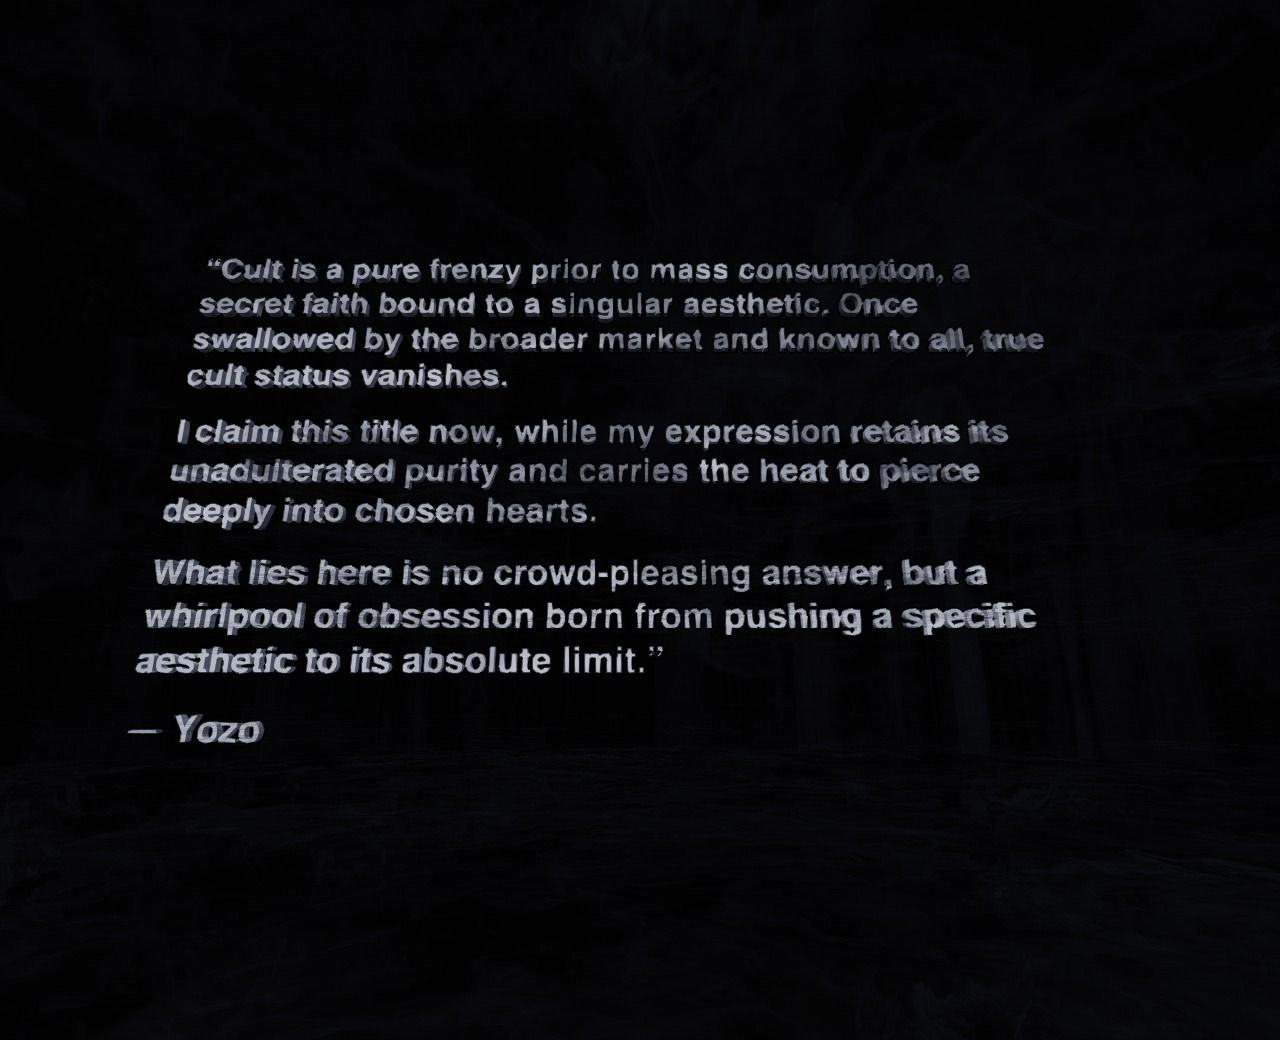
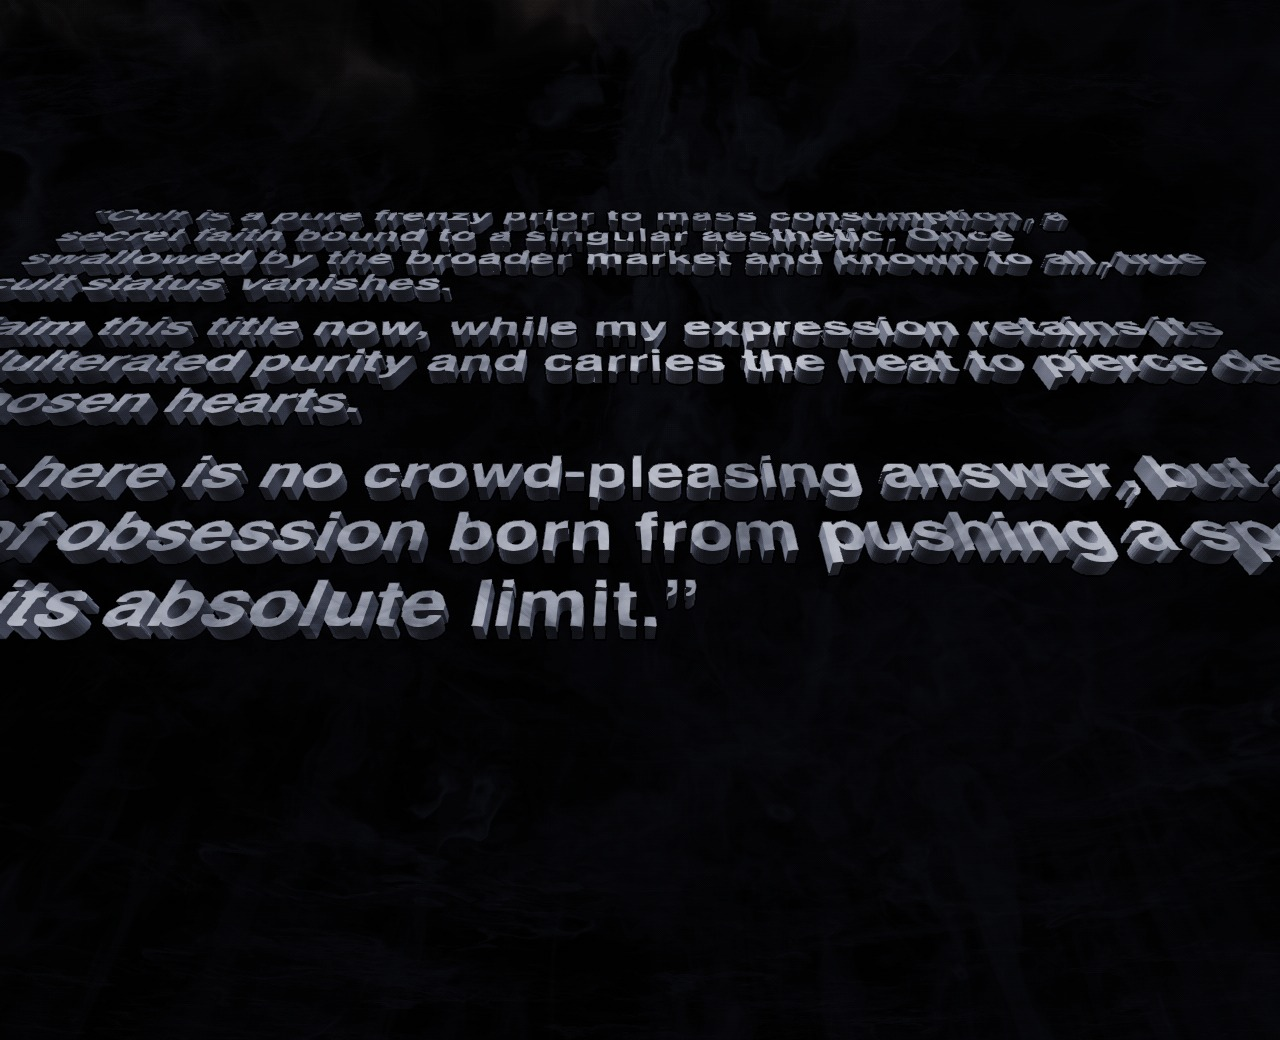
the mountain, monumental: 60 m letters, 1.6 km wide, 900 m tall, 400 m out; bottom line 24° up, top 70° up; sized by the look-up angle, never to fit the screen

Changed region(s): [[0.0, 0.1846, 1.0, 0.6462], [0.0938, 0.6769, 0.2188, 0.7385]]

diff --git a/web/src/world/mountain.ts b/web/src/world/mountain.ts
@@ -1,14 +1,15 @@
 // The mountain (owner 09-07: "so far away and so big that it looks like it has perspective, a genuine mountain in the
 // distance, the colour illuminated by the lighting, not flat white"): Yozo's words as solid Helvetica letters cut deep like
-// stone, one upright block 300 m out opposite the door (owner: "closer, upright, the perspective naturally": you look up at it),
-// its foot on the cloud floor, lit by a cool key light, a slow sweep of light across the face, and the lightning. Fixed in the world.
+// stone, one upright block 400 m out opposite the door, 1.6 km wide and 900 m tall, wider than the view (owner: "MASSIVE
+// MONUMENTAL GIGANTIC, you have to look up to see it"): the bottom line 24° up above the roofline, the top 70° up, hazed, into
+// the clouds. Sized by the look-up angle, never to fit the screen. Lit by a cool key light, a slow sweep, and the lightning.
 import * as THREE from 'three'
 import { FontLoader, type Font } from 'three/examples/jsm/loaders/FontLoader.js'
 import { TextGeometry } from 'three/examples/jsm/geometries/TextGeometry.js'
 import { mergeGeometries } from 'three/examples/jsm/utils/BufferGeometryUtils.js'
 
 export interface MountainOpts { width: number; size: number; depth: number; lean: number; lineHeight: number; paraGap: number }
-const DEFAULTS: MountainOpts = { width: 420, size: 15.5, depth: 4.5, lean: 0, lineHeight: 1.22, paraGap: 0.6 }
+const DEFAULTS: MountainOpts = { width: 1640, size: 60, depth: 17, lean: 0, lineHeight: 1.22, paraGap: 0.6 }
 
 const vert = /* glsl */ `
 varying vec3 vW; varying vec3 vN; varying vec3 vL;
@@ -71,7 +72,7 @@ export class Mountain {
         uGroundCol: { value: new THREE.Color(0.05, 0.05, 0.06) },
         uAlbedo: { value: new THREE.Color(0.5, 0.5, 0.52) },
         uHaze: { value: new THREE.Color(0.035, 0.04, 0.055) },
-        uHazeRange: { value: new THREE.Vector2(400, 1800) },   // nearly off this close: it must read
+        uHazeRange: { value: new THREE.Vector2(500, 2200) },   // the bottom rows clear, the top rows a third into the sky's grey
       },
       vertexShader: vert, fragmentShader: frag, fog: false,
     })

diff --git a/web/src/world/looks/void.ts b/web/src/world/looks/void.ts
@@ -64,7 +64,7 @@ export class Void {
       const s = new THREE.Mesh(new THREE.CircleGeometry(400, 40), m); s.rotation.x = -Math.PI / 2; s.position.y = floorY + dy; s.renderOrder = -8 + i; this.group.add(s)
     })
     // mist across the way (owner 09-07): standing sheets, near ones small and fine, far ones huge and coarse behind the
-    // mountain, so the distance layers; the bank at 250 m veils the mountain's foot on the cloud floor (gone above its fade)
+    // mountain, so the distance layers; the bank at 350 m is the cloud the mountain's foot stands in (gone above its fade)
     const stand = (x: number, w: number, h: number, cy: number, sc: number, al: number, drift: number, order: number, fade?: [number, number]) => {
       const m = smoke(sc, drift, al, 0); m.uniforms.axis.value = 1; if (fade) (m.uniforms.fade.value as THREE.Vector2).set(fade[0], fade[1]); this.materials.push(m)
       const s = new THREE.Mesh(new THREE.PlaneGeometry(w, h), m); s.position.set(x, cy, 0); s.rotation.y = -Math.PI / 2; s.renderOrder = order; this.group.add(s)
@@ -73,7 +73,7 @@ export class Void {
     stand(82, 900, 500, floorY + 120, 0.035, 0.55, 14.1, -5)
     stand(420, 2600, 1000, floorY + 220, 0.011, 0.25, 17.3, -7)
     stand(950, 3800, 1500, floorY + 380, 0.007, 0.3, 20.5, -8)
-    stand(250, 1200, 200, floorY - 90, 0.03, 0.85, 23.7, -4, [floorY - 34, floorY - 18])
+    stand(350, 2600, 400, floorY + 60, 0.012, 0.75, 23.7, -4, [floorY + 150, floorY + 205])
     // the old flat void disc goes: the smoke is the void now
     room.traverse((o) => { const m = o as THREE.Mesh; if (m.isMesh && m.userData.kind === 'ground') m.visible = false })
   }

diff --git a/web/src/world/intro.ts b/web/src/world/intro.ts
@@ -1,7 +1,7 @@
 // The intro (owner 09-06/07): you start on the far square of the yard. The CULT letters float 10 cm off the red wall under a
 // spotlight that breathes and flickers and throws their shadow. Yozo's words stand opposite the door as a mountain: solid
-// upright letters 300 m out, you look up at them, lit by the light and the lightning (mountain.ts). Nothing else floats in
-// the yard: he will instruct the rest.
+// upright letters 60 m tall, 400 m out, a wall 1.6 km wide and 900 m tall you crane your neck at, lit by the light and the
+// lightning (mountain.ts). Nothing else floats in the yard: he will instruct the rest.
 import * as THREE from 'three'
 import type { Level } from './room/level'
 import type { Loader } from './loader'
@@ -46,8 +46,8 @@ export class Intro {
     this.spot.castShadow = true; this.spot.shadow.mapSize.set(1024, 1024); this.spot.shadow.bias = -0.0005; this.spot.shadow.camera.near = 0.3; this.spot.shadow.camera.far = 8
     this.group.add(this.spot, this.spot.target)
 
-    // the word of god: Yozo's quote as a mountain 300 m out opposite the door, upright, its foot 20 m down on the cloud floor
-    this.mountain = new Mountain(YOZO_QUOTE, 300, floorY - 20, base)
+    // the word of god: Yozo's quote as a mountain 400 m out opposite the door, upright, its bottom line 180 m up (24° from the yard), its top 70° up
+    this.mountain = new Mountain(YOZO_QUOTE, 400, floorY + 180, base)
     this.group.add(this.mountain.group)
   }
 

diff --git a/docs/NOTES.md b/docs/NOTES.md
@@ -73,3 +73,4 @@ A note without a check, or with a failing check, fails the audit. Repeated notes
 | 09-07 | why does the text follow the player, it should be giant and static in the background | my camera-glue was the follow; now truly far: fixed in the world 1.4 km out, 9.5× scale, camera far 4000, dome radius 3000, mist sheets scaled out | fixed 09-07 |
 | 09-07 | do all my other changes first, then the live site | slot ring (click a bar slot: hold · remove · done, mouse free aims), sculpture texture upload (material page › your image, data URL, tiled by cm), per-part tint (look ring › parts, the OBJ's 6 groups 球_1..6), share link ?layout=name from layouts/, token save to the repo (settings › file, GitHub contents API), layouts/demo.json | built 09-07 |
 | 09-07 | the mountain text moves with the camera, flat, not real; far and huge with real perspective, colour lit by the lighting not flat white; then: unreadable, closer to the gallery, upright, the perspective naturally | web/src/world/mountain.ts: solid Helvetica Bold letters (TextGeometry, the font converted from this PC by web/tools/make_typeface.py to public/brand/helvetica-bold.typeface.json), one upright block 300 m out opposite the door, 420 m wide, 15.5 m letters, 4.5 m deep, foot 20 m down on the cloud floor; stone shader: key light + sweep + hemisphere + lightning + rim + faint haze; void.ts: standing sheets read their own plane (no more stripes), far sheets 420/950 m, foot bank 250 m with a fade; text3d.ts gone | built 09-07; his eye pending |
+| 09-07 | NOT MONUMENTAL ENOUGH, GIANT, you have to look up to see it; MASSIVE MONUMENTAL GIGANTIC (my fault: I sized it to fit one screen twice, 2400/1700 = 420/300) | sized by the look-up angle: letters 60 m, block 1.6 km wide, 900 m tall, 400 m out, wider than the view; bottom line 180 m up (24°), top 70° up, top rows a third hazed; cloud bank at 350 m around the foot | built 09-07, live; his eye pending |
